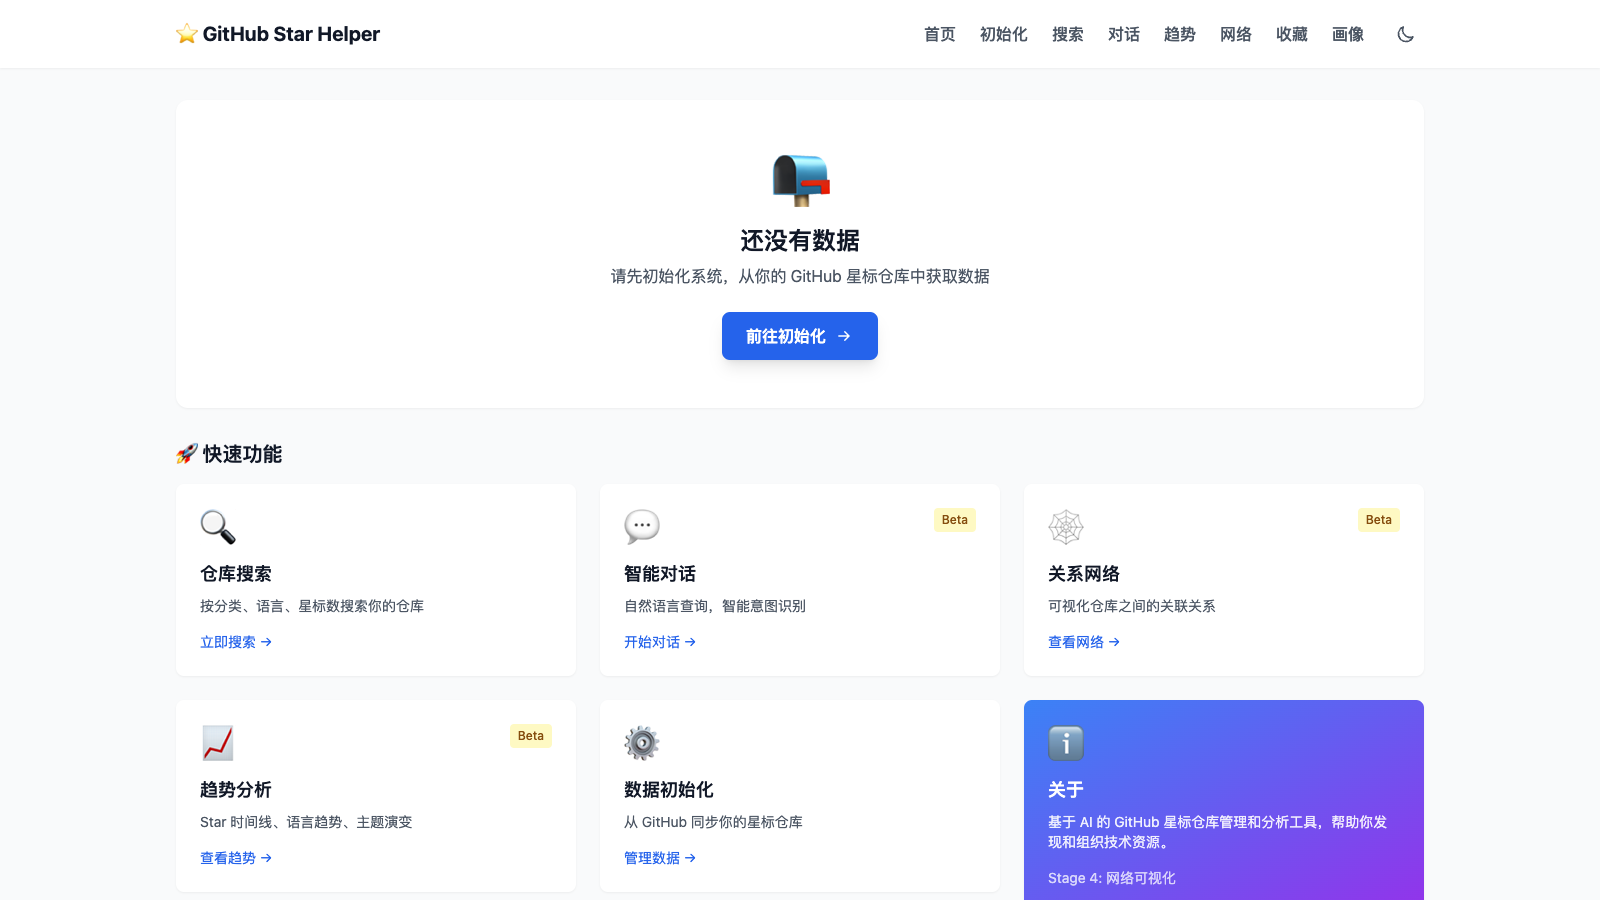
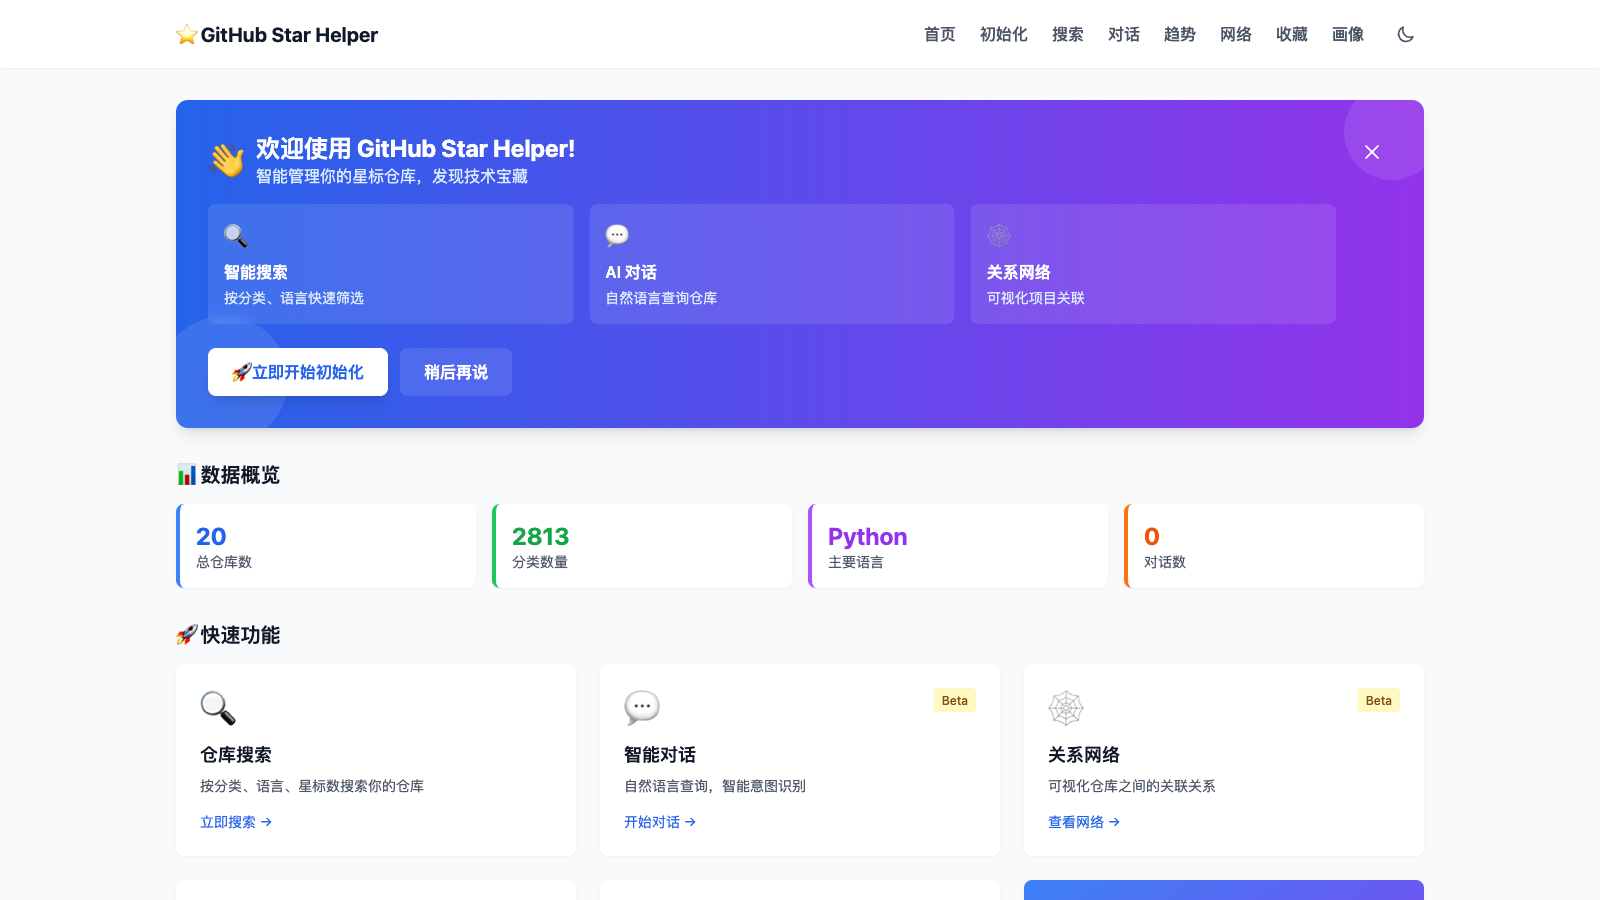
fix: 修复前端代理配置并更新界面截图（包含真实数据）

diff --git a/frontend/vite.config.ts b/frontend/vite.config.ts
@@ -13,7 +13,7 @@ export default defineConfig({
     port: 3000,
     proxy: {
       '/api': {
-        target: 'http://localhost:8888',
+        target: 'http://localhost:8889',
         changeOrigin: true
       }
     }
